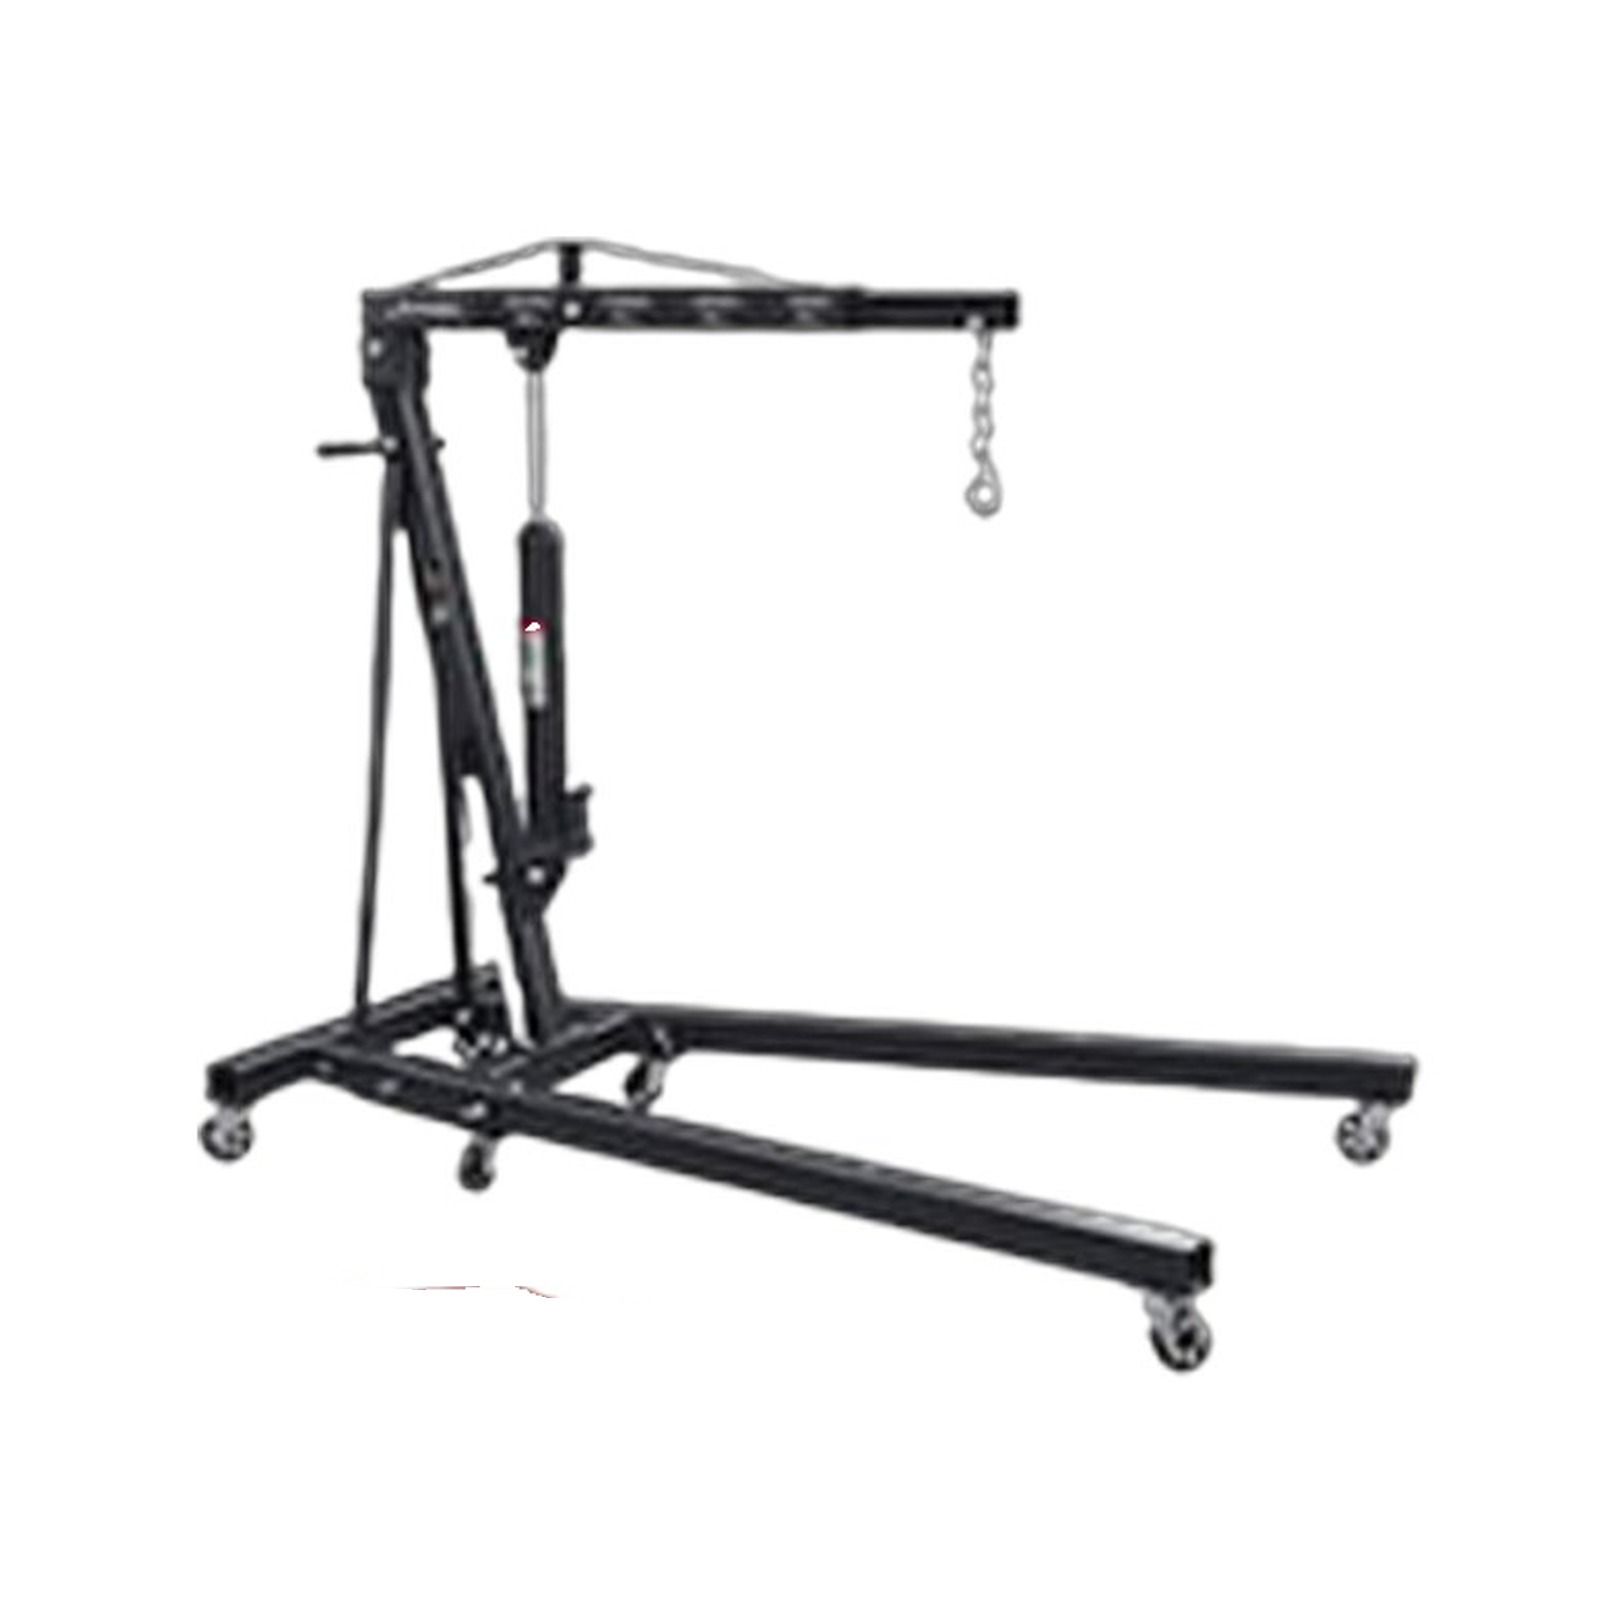
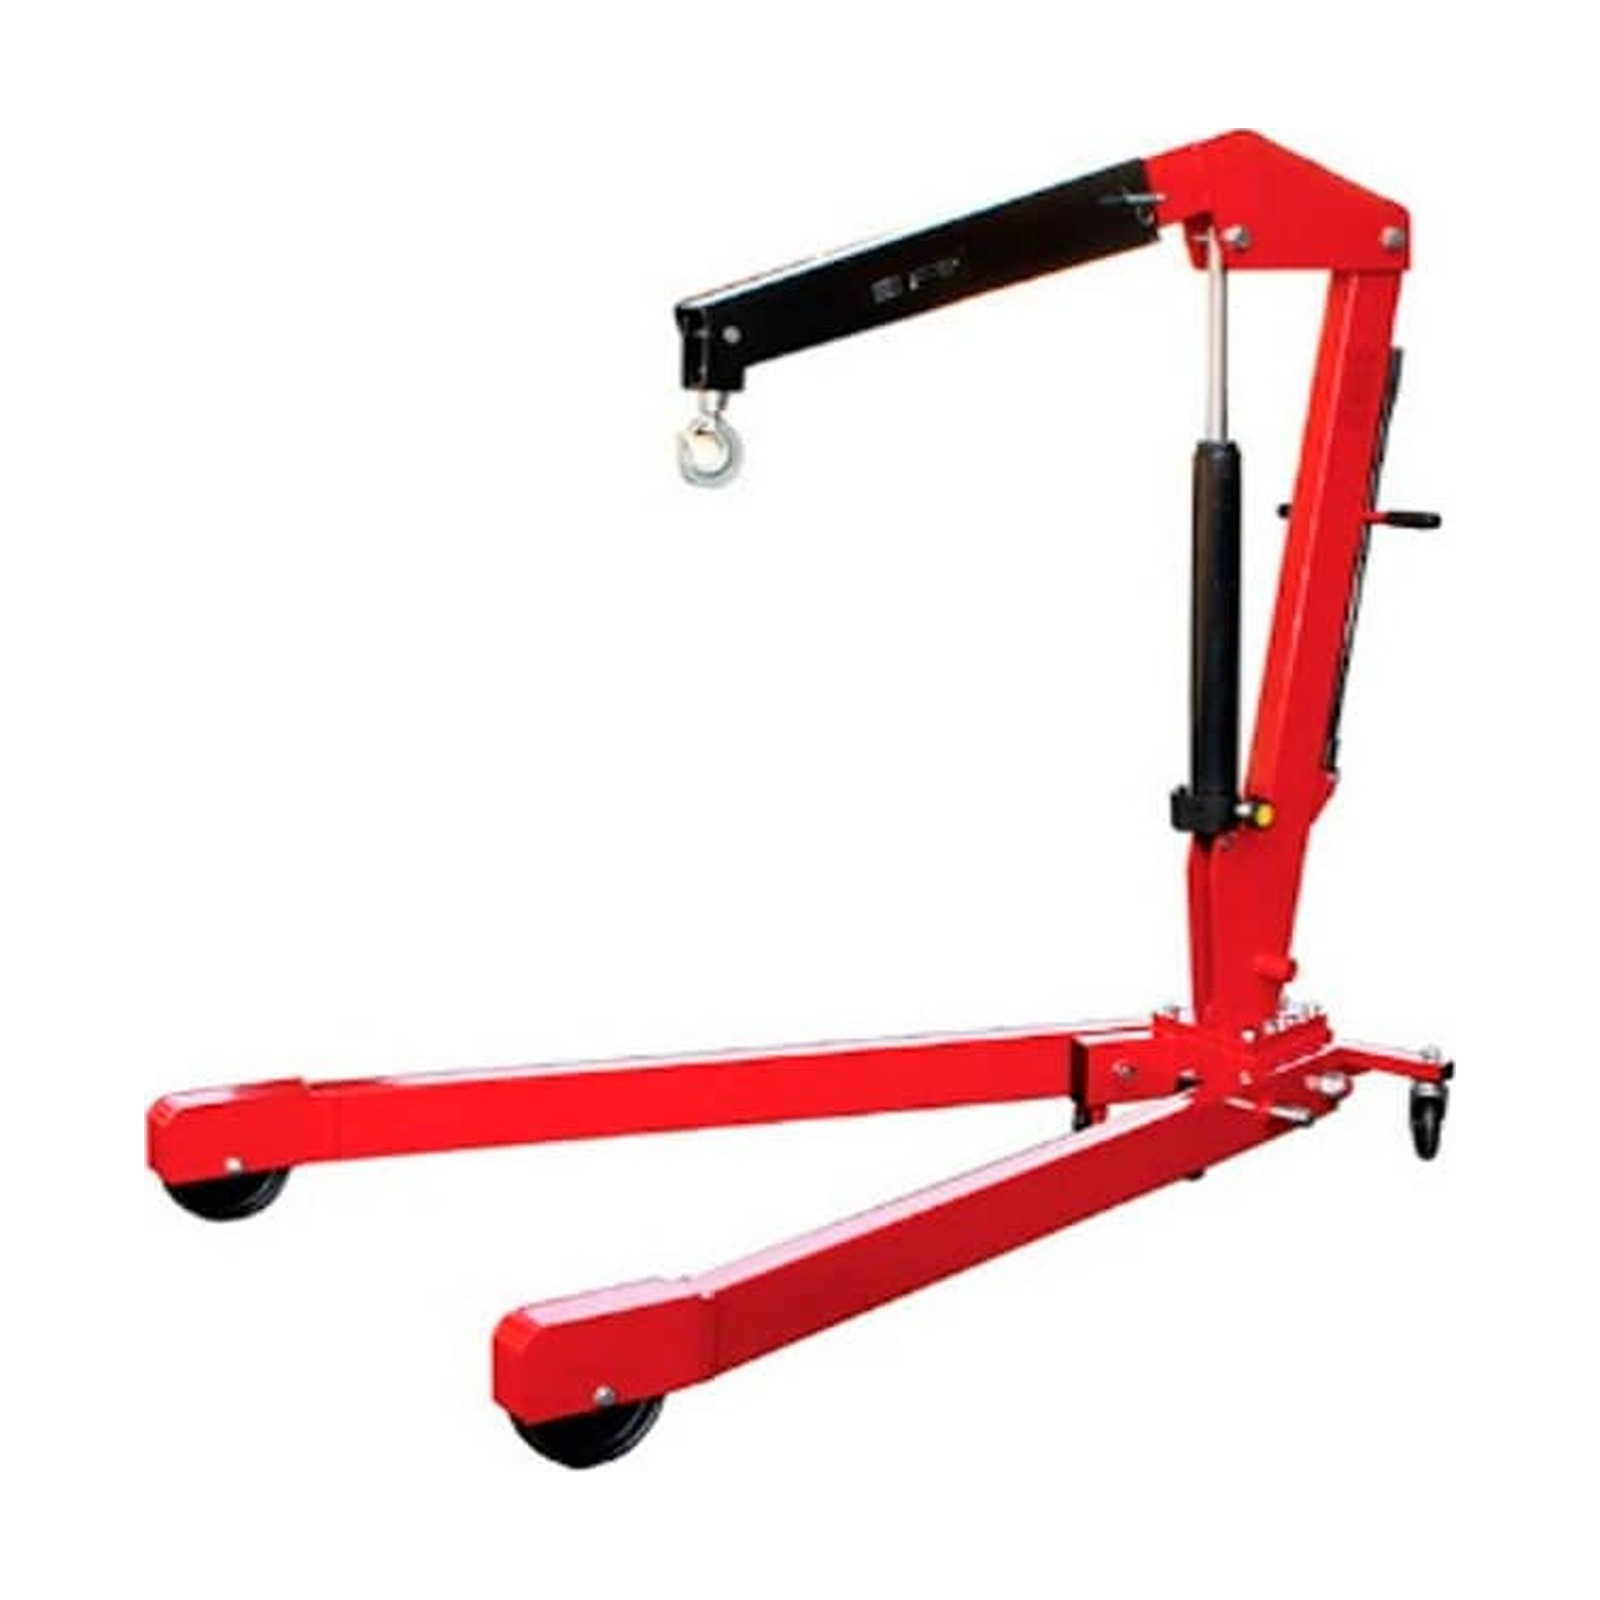
fix(catalogo): pluma de taller con foto de Dominio Tools, gata de transmisión nueva y mangueras hidráulicas en fabricación

Changed region(s): [[0.0625, 0.0625, 0.9062, 0.9375]]

diff --git a/src/data/servicios.ts b/src/data/servicios.ts
@@ -74,7 +74,7 @@ export const servicios: Servicio[] = [
         equipos: [
           { nombre: 'Gata botella', detalle: 'Distintos tonelajes.', foto: 'gata-botella-10-ton' },
           { nombre: 'Gata lagarto', detalle: 'Distintos tonelajes.', foto: 'gata-lagarto-3-ton' },
-          { nombre: 'Gata de transmisión', foto: 'gata-transmision-taller' },
+          { nombre: 'Gata de transmisión', foto: 'gata-de-transmision' },
           { nombre: 'Prensa hidráulica', foto: 'prensa-hidraulica-de-taller' },
           { nombre: 'Pluma hidráulica', foto: 'pluma-hidraulica-5-ton' },
           { nombre: 'Soportes de motor y de corona', detalle: 'Reparación y mantenimiento.', foto: 'soportes-reparacion-motor' },
@@ -144,7 +144,7 @@ export const servicios: Servicio[] = [
           { nombre: 'Retenes', foto: 'retenes' },
           { nombre: 'Sellos hidráulicos', foto: 'sellos-hidraulicos' },
           { nombre: 'Llaves hidráulicas', foto: 'llaves-hidraulicas' },
-          { nombre: 'Llaves de paso', foto: 'llaves-de-paso' },
+          { nombre: 'Mangueras hidráulicas', foto: 'mangueras-hidraulicas' },
         ],
       },
     ],
@@ -152,7 +152,7 @@ export const servicios: Servicio[] = [
     seo: {
       titulo: 'Fabricación de equipos hidráulicos en Lima',
       descripcion:
-        'Fabricamos a medida elevadores, gatas, prensas y soportes para reparación de motor, acoples, retenes, sellos hidráulicos, llaves hidráulicas y llaves de paso. Hidrofluid Service, Santa Anita, Lima.',
+        'Fabricamos a medida elevadores, gatas, prensas y soportes para reparación de motor, acoples, retenes, sellos hidráulicos, llaves hidráulicas y mangueras hidráulicas. Hidrofluid Service, Santa Anita, Lima.',
     },
   },
 ];

diff --git a/src/data/catalogo.ts b/src/data/catalogo.ts
@@ -228,12 +228,11 @@ const otros: Producto[] = [
     pendiente: true,
   },
   {
-    slug: 'gata-de-transmision-de-piso',
-    nombre: 'Gata de transmisión de piso',
+    slug: 'gata-de-transmision',
+    nombre: 'Gata de transmisión',
     categoria: 'gatas-de-transmision',
-    familia: 'piso',
-    resumen: 'Gata de transmisión baja con ruedas giratorias, ideal para fosas y elevadores de taller.',
-    foto: 'gata-transmision-taller',
+    resumen: 'Gata de transmisión con plataforma regulable y cadena de sujeción para montar y desmontar cajas de cambio en taller.',
+    foto: 'gata-de-transmision',
     pendiente: true,
   },
   {

diff --git a/src/data/site.ts b/src/data/site.ts
@@ -51,7 +51,7 @@ export const serviciosHome = [
   },
   {
     titulo: 'Fabricación',
-    texto: 'Elevadores, gatas, prensas, acoples, retenes, sellos hidráulicos, llaves hidráulicas y llaves de paso, a medida.',
+    texto: 'Elevadores, gatas, prensas, acoples, retenes, sellos hidráulicos, llaves hidráulicas y mangueras hidráulicas, a medida.',
     href: '/servicios/fabricacion',
     foto: 'srv-fabricacion',
   },
